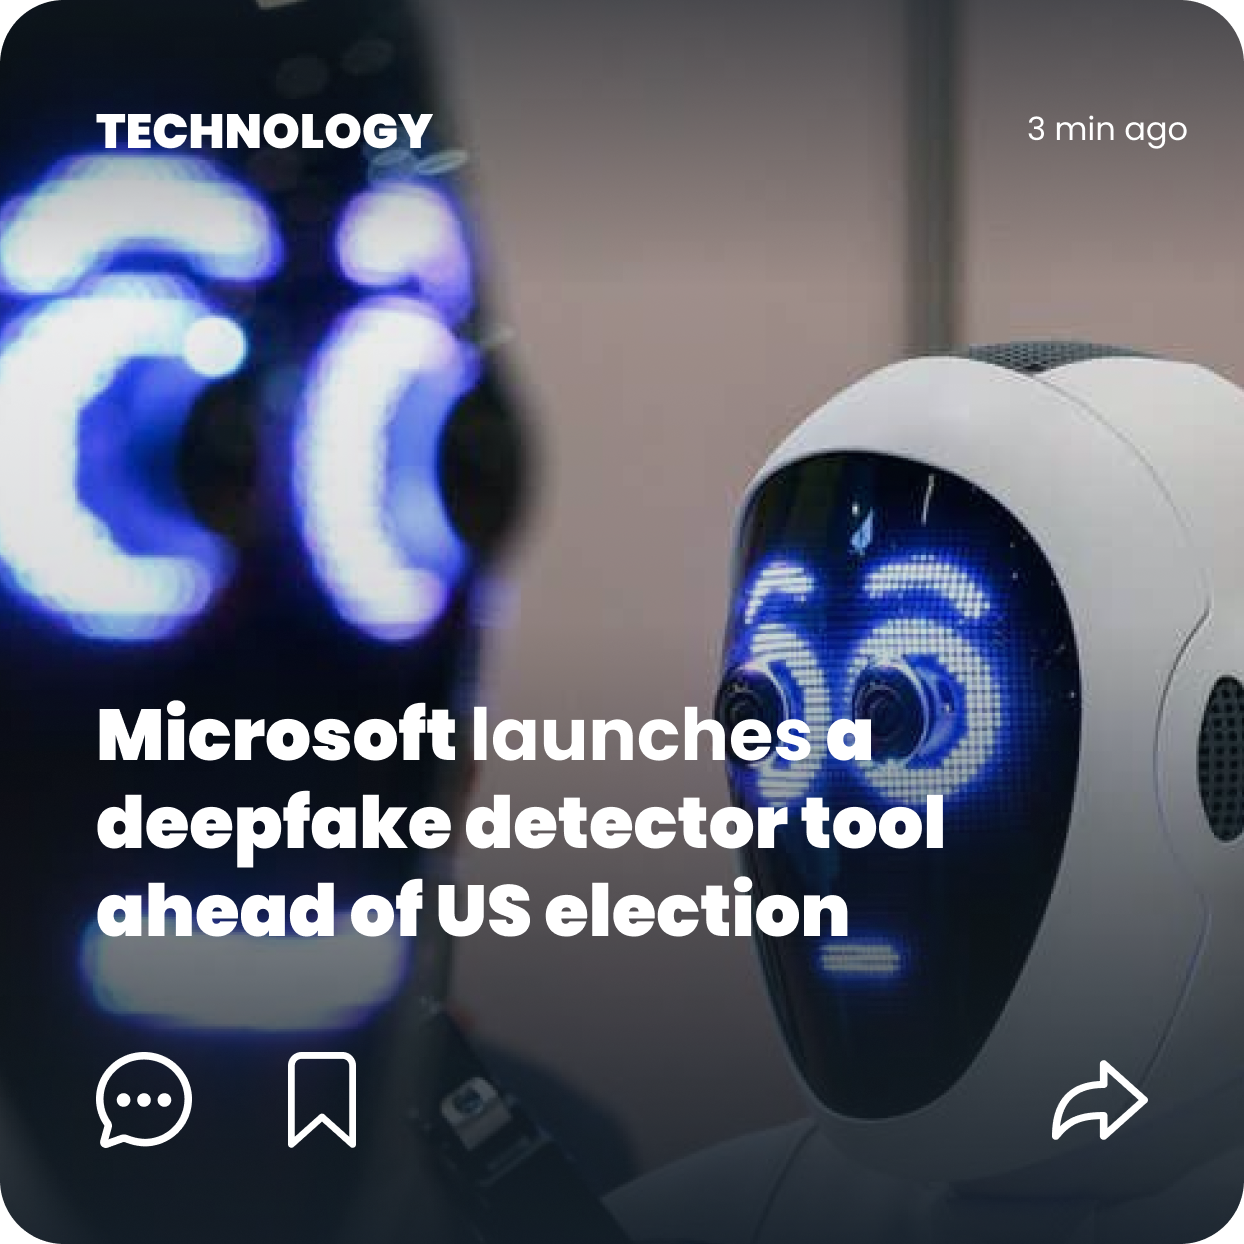
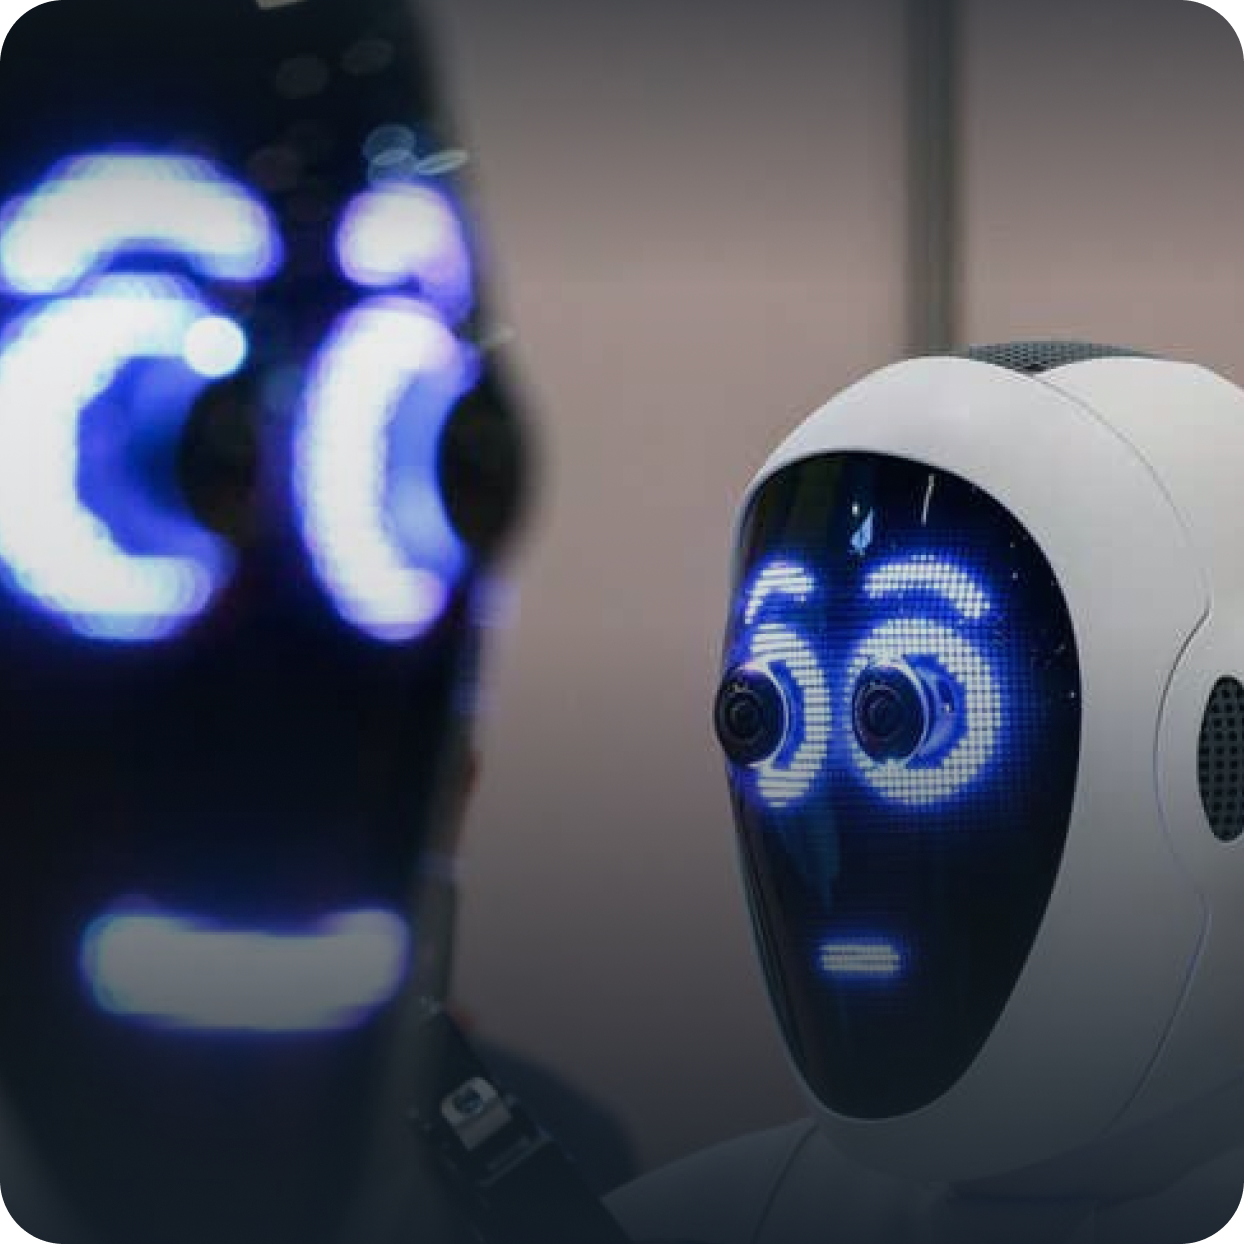
add asset

diff --git a/sanberappflutter/lib/pages/home/home_page.dart b/sanberappflutter/lib/pages/home/home_page.dart
@@ -1,6 +1,10 @@
+// ignore_for_file: prefer_const_constructors
+
 import 'package:flutter/material.dart';
 import 'package:google_fonts/google_fonts.dart';
 import 'package:sanberappflutter/app/config/app_assets.dart';
+import 'package:sanberappflutter/app/config/app_color.dart';
+import 'package:sanberappflutter/widget/custom_box_image.dart';
 
 class HomePage extends StatelessWidget {
   const HomePage({super.key});
@@ -8,26 +12,105 @@ class HomePage extends StatelessWidget {
   @override
   Widget build(BuildContext context) {
     return Scaffold(
-      appBar: AppBar(
-        title: Row(
-          mainAxisAlignment: MainAxisAlignment.spaceBetween,
-          children: [
-            Container(
-              height: 40,
-              width: 40,
-              decoration: BoxDecoration(
-                  image:
-                      DecorationImage(image: AssetImage(AppAssets.iconMenu))),
-            ),
-            Text(
-              'NewsApp',
-              style: GoogleFonts.poppins(
-                  fontSize: 20, fontWeight: FontWeight.bold),
-            ),
-            SizedBox(),
-          ],
+        appBar: AppBar(
+          title: Row(
+            mainAxisAlignment: MainAxisAlignment.spaceBetween,
+            children: [
+              CustomBoxImage(
+                  urlImage: AppAssets.iconMenu, width: 40, height: 40),
+              Text(
+                'NewsApp',
+                style: GoogleFonts.poppins(
+                    fontSize: 20, fontWeight: FontWeight.bold),
+              ),
+              SizedBox(),
+            ],
+          ),
         ),
-      ),
-    );
+        body: Column(
+          children: [
+            SizedBox(
+              height: 315,
+              child: ListView.builder(
+                scrollDirection: Axis.horizontal,
+                itemCount: 3,
+                itemBuilder: (context, index) => CustomBoxImage(
+                  margin: EdgeInsets.only(top: 32, left: index == 0 ? 30 : 0),
+                  padding: EdgeInsets.all(24),
+                  urlImage: AppAssets.image1,
+                  width: 310,
+                  height: 310,
+                  child: Stack(
+                    children: [
+                      Column(
+                        children: [
+                          Row(
+                            mainAxisAlignment: MainAxisAlignment.spaceBetween,
+                            children: [
+                              Text(
+                                'TECHNOLOGY',
+                                style: GoogleFonts.poppins(
+                                    fontSize: 12,
+                                    color: whiteColor,
+                                    fontWeight: FontWeight.bold),
+                              ),
+                              Text(
+                                '5 min ago',
+                                style: GoogleFonts.poppins(
+                                    fontSize: 12, color: whiteColor),
+                              )
+                            ],
+                          ),
+                          Spacer(),
+                          Text(
+                            'Microsoft launches a deepfake detector tool ahead of US election',
+                            style: GoogleFonts.poppins(
+                                fontSize: 18,
+                                color: whiteColor,
+                                fontWeight: FontWeight.bold),
+                          ),
+                          SizedBox(height: 24),
+                          Row(
+                            children: [
+                              CustomBoxImage(
+                                  urlImage: AppAssets.iconChat,
+                                  width: 20,
+                                  height: 20),
+                              CustomBoxImage(
+                                  margin: EdgeInsets.only(left: 24),
+                                  urlImage: AppAssets.iconBookmark,
+                                  width: 20,
+                                  height: 20),
+                              Spacer(),
+                              CustomBoxImage(
+                                  urlImage: AppAssets.iconRedo,
+                                  width: 20,
+                                  height: 20),
+                            ],
+                          ),
+                        ],
+                      ),
+                    ],
+                  ),
+                ),
+              ),
+            ),
+            Padding(
+              padding: const EdgeInsets.only(left: 30, right: 30, top: 40),
+              child: Column(
+                children: [
+                  Row(
+                    mainAxisAlignment: MainAxisAlignment.spaceBetween,
+                    children: [
+                      Text('Latest News'),
+                      Icon(Icons.arrow_circle_right_outlined,
+                          color: Colors.grey),
+                    ],
+                  ),
+                ],
+              ),
+            )
+          ],
+        ));
   }
 }

diff --git a/sanberappflutter/lib/widget/custom_box_image.dart b/sanberappflutter/lib/widget/custom_box_image.dart
@@ -1,0 +1,26 @@
+import 'package:flutter/material.dart';
+
+class CustomBoxImage extends StatelessWidget {
+  CustomBoxImage(
+      {super.key, this.width, this.height, required this.urlImage, this.margin, this.child, this.padding});
+
+  final double? width;
+  final double? height;
+  final String urlImage;
+  final EdgeInsets? margin;
+  final EdgeInsets? padding;
+  Widget? child;
+
+  @override
+  Widget build(BuildContext context) {
+    return Container(
+      padding: padding,
+      margin: margin,
+      width: width ?? 50,
+      height: height ?? 50,
+      decoration:
+          BoxDecoration(image: DecorationImage(image: AssetImage(urlImage))),
+          child: child,
+    );
+  }
+}

diff --git a/sanberappflutter/lib/app/config/app_assets.dart b/sanberappflutter/lib/app/config/app_assets.dart
@@ -13,4 +13,7 @@ class AppAssets {
   //TODO:ICON
   static const iconMenu = '$icon/icon_menu.png';
   static const iconArrow = '$icon/icon_arrow.png';
+  static const iconBookmark = '$icon/icon_bookmark.png';
+  static const iconRedo = '$icon/icon_redo.png';
+  static const iconChat = '$icon/icon_chatbubble.png';
 }
